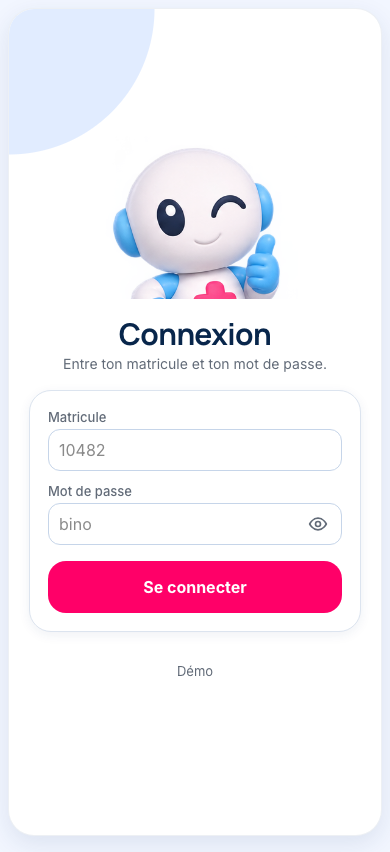
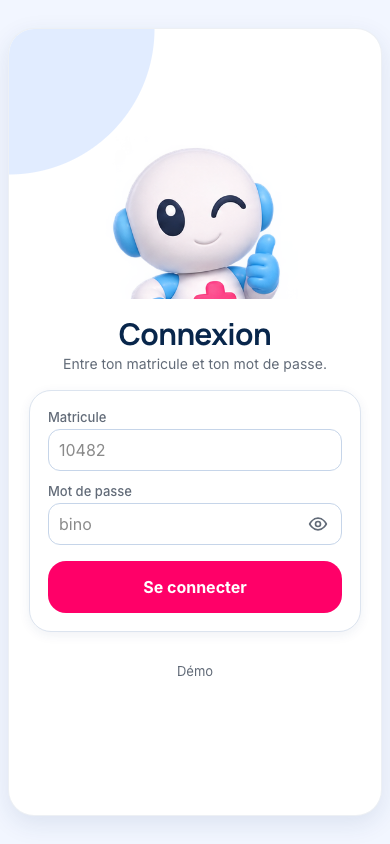
fix(mobile): garder la carte centrée sans scroll

diff --git a/e2e/proto/parcours.spec.ts b/e2e/proto/parcours.spec.ts
@@ -43,6 +43,9 @@ async function captureResponsive(page: Page, path: string, width: number, fullPa
         x: rect?.x ?? 0,
         y: rect?.y ?? 0,
         width: rect?.width ?? 0,
+        centerOffset: rect
+          ? Math.abs(rect.y + rect.height / 2 - window.innerHeight / 2)
+          : Number.POSITIVE_INFINITY,
         radius: element ? Number.parseFloat(getComputedStyle(element).borderTopLeftRadius) : 0,
       };
     })(),
@@ -50,6 +53,7 @@ async function captureResponsive(page: Page, path: string, width: number, fullPa
   expect(dimensions.content).toBeLessThanOrEqual(dimensions.viewport);
   expect(dimensions.contentHeight).toBeLessThanOrEqual(dimensions.viewportHeight);
   expect(dimensions.scrollY).toBe(0);
+  expect(dimensions.shell.centerOffset).toBeLessThan(1);
   if (width > 600) expect(dimensions.shell.width).toBeLessThanOrEqual(440);
   else {
     expect(dimensions.shell.x).toBeGreaterThanOrEqual(8);
@@ -94,6 +98,16 @@ test('la page ne défile pas verticalement sur petit écran', async ({ page }, t
   await page.setViewportSize({ width: 390, height: 844 });
   await page.waitForTimeout(300);
   await page.screenshot({ path: testInfo.outputPath('design-login-success-mobile.png') });
+  const shell = page.locator('.shell');
+  const centeredY = async () =>
+    shell.evaluate((element) => {
+      const rect = element.getBoundingClientRect();
+      return Math.abs(rect.top + rect.height / 2 - window.innerHeight / 2);
+    });
+  await expect.poll(centeredY).toBeLessThan(1);
+  await page.evaluate(() => window.scrollTo({ top: 500, behavior: 'instant' }));
+  await expect.poll(() => page.evaluate(() => window.scrollY)).toBe(0);
+  await expect.poll(centeredY).toBeLessThan(1);
 });
 
 test('connexion et accueil restent centrés quand la hauteur visible est courte', async ({

diff --git a/prototypes/bino/css/styles.css b/prototypes/bino/css/styles.css
@@ -39,7 +39,8 @@ html {
   height: 100%;
   max-width: 100%;
   overflow-x: clip;
-  overscroll-behavior-x: none;
+  overflow-y: hidden;
+  overscroll-behavior: none;
 }
 body {
   height: 100%;
@@ -103,9 +104,9 @@ label,
 .shell {
   width: calc(100% - 16px);
   max-width: 440px;
-  height: calc(100vh - 36px);
+  height: calc(100vh - 56px);
   min-height: 0;
-  margin: 28px auto 8px;
+  margin: 28px auto;
   overflow: hidden;
   background: var(--white);
   border: 1px solid rgba(27, 61, 110, 0.08);
@@ -120,10 +121,10 @@ label,
     height: calc(
       100dvh -
       max(28px, calc(env(safe-area-inset-top) + 12px)) -
-      max(8px, env(safe-area-inset-bottom))
+      max(28px, calc(env(safe-area-inset-bottom) + 12px))
     );
     margin-top: max(28px, calc(env(safe-area-inset-top) + 12px));
-    margin-bottom: max(8px, env(safe-area-inset-bottom));
+    margin-bottom: max(28px, calc(env(safe-area-inset-bottom) + 12px));
   }
 }
 header.top {
@@ -1377,7 +1378,6 @@ details.prev .cr-item:first-of-type {
   --bg: var(--bino-background);
 }
 body {
-  min-height: 100vh;
   background: var(--bino-background);
 }
 .card {
